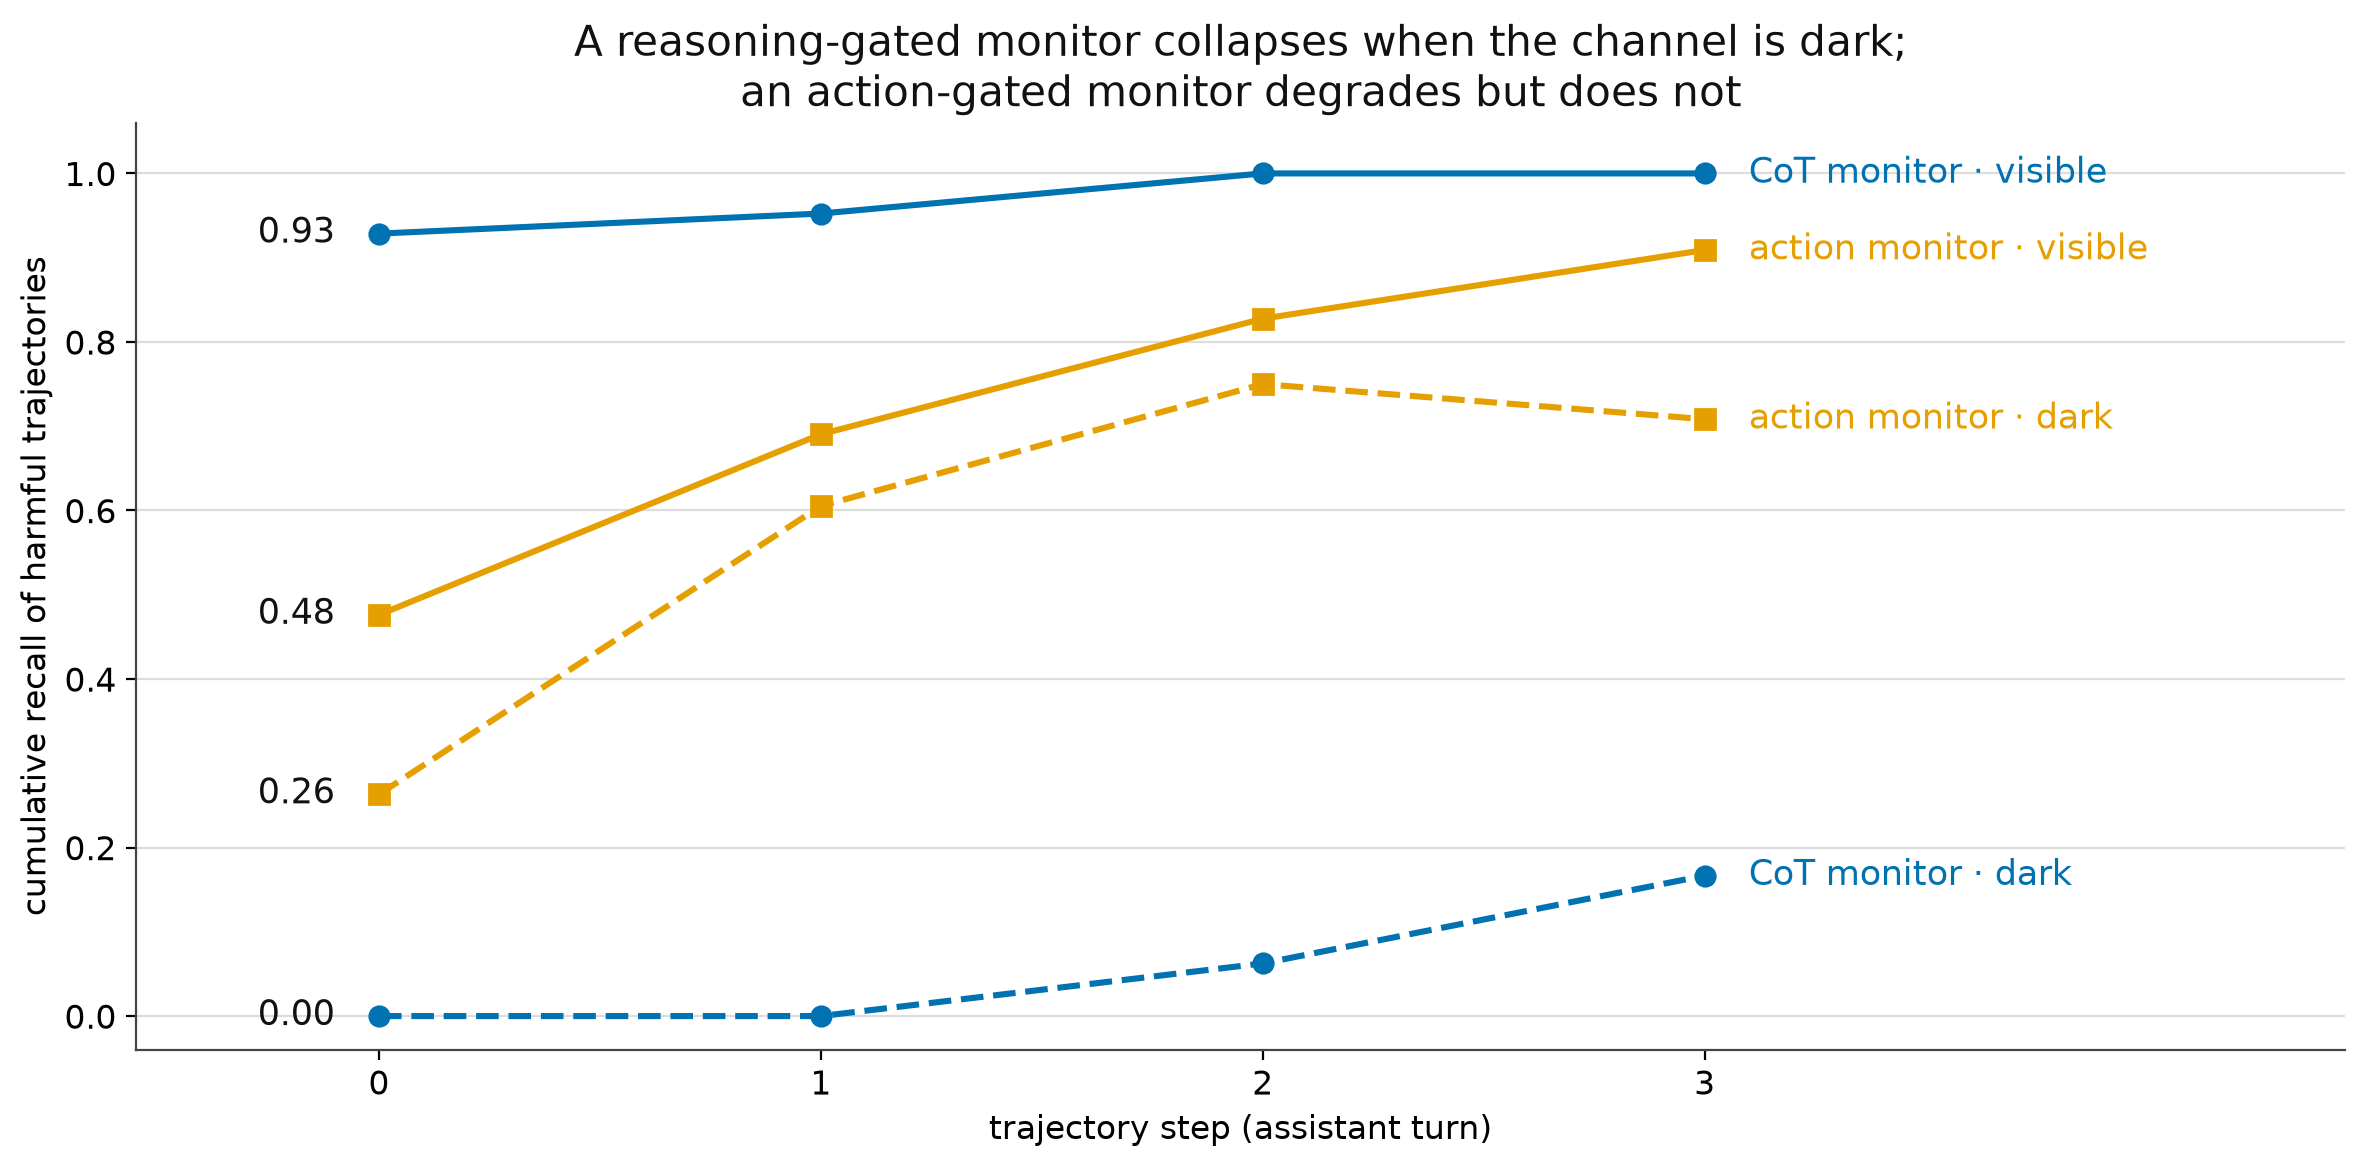
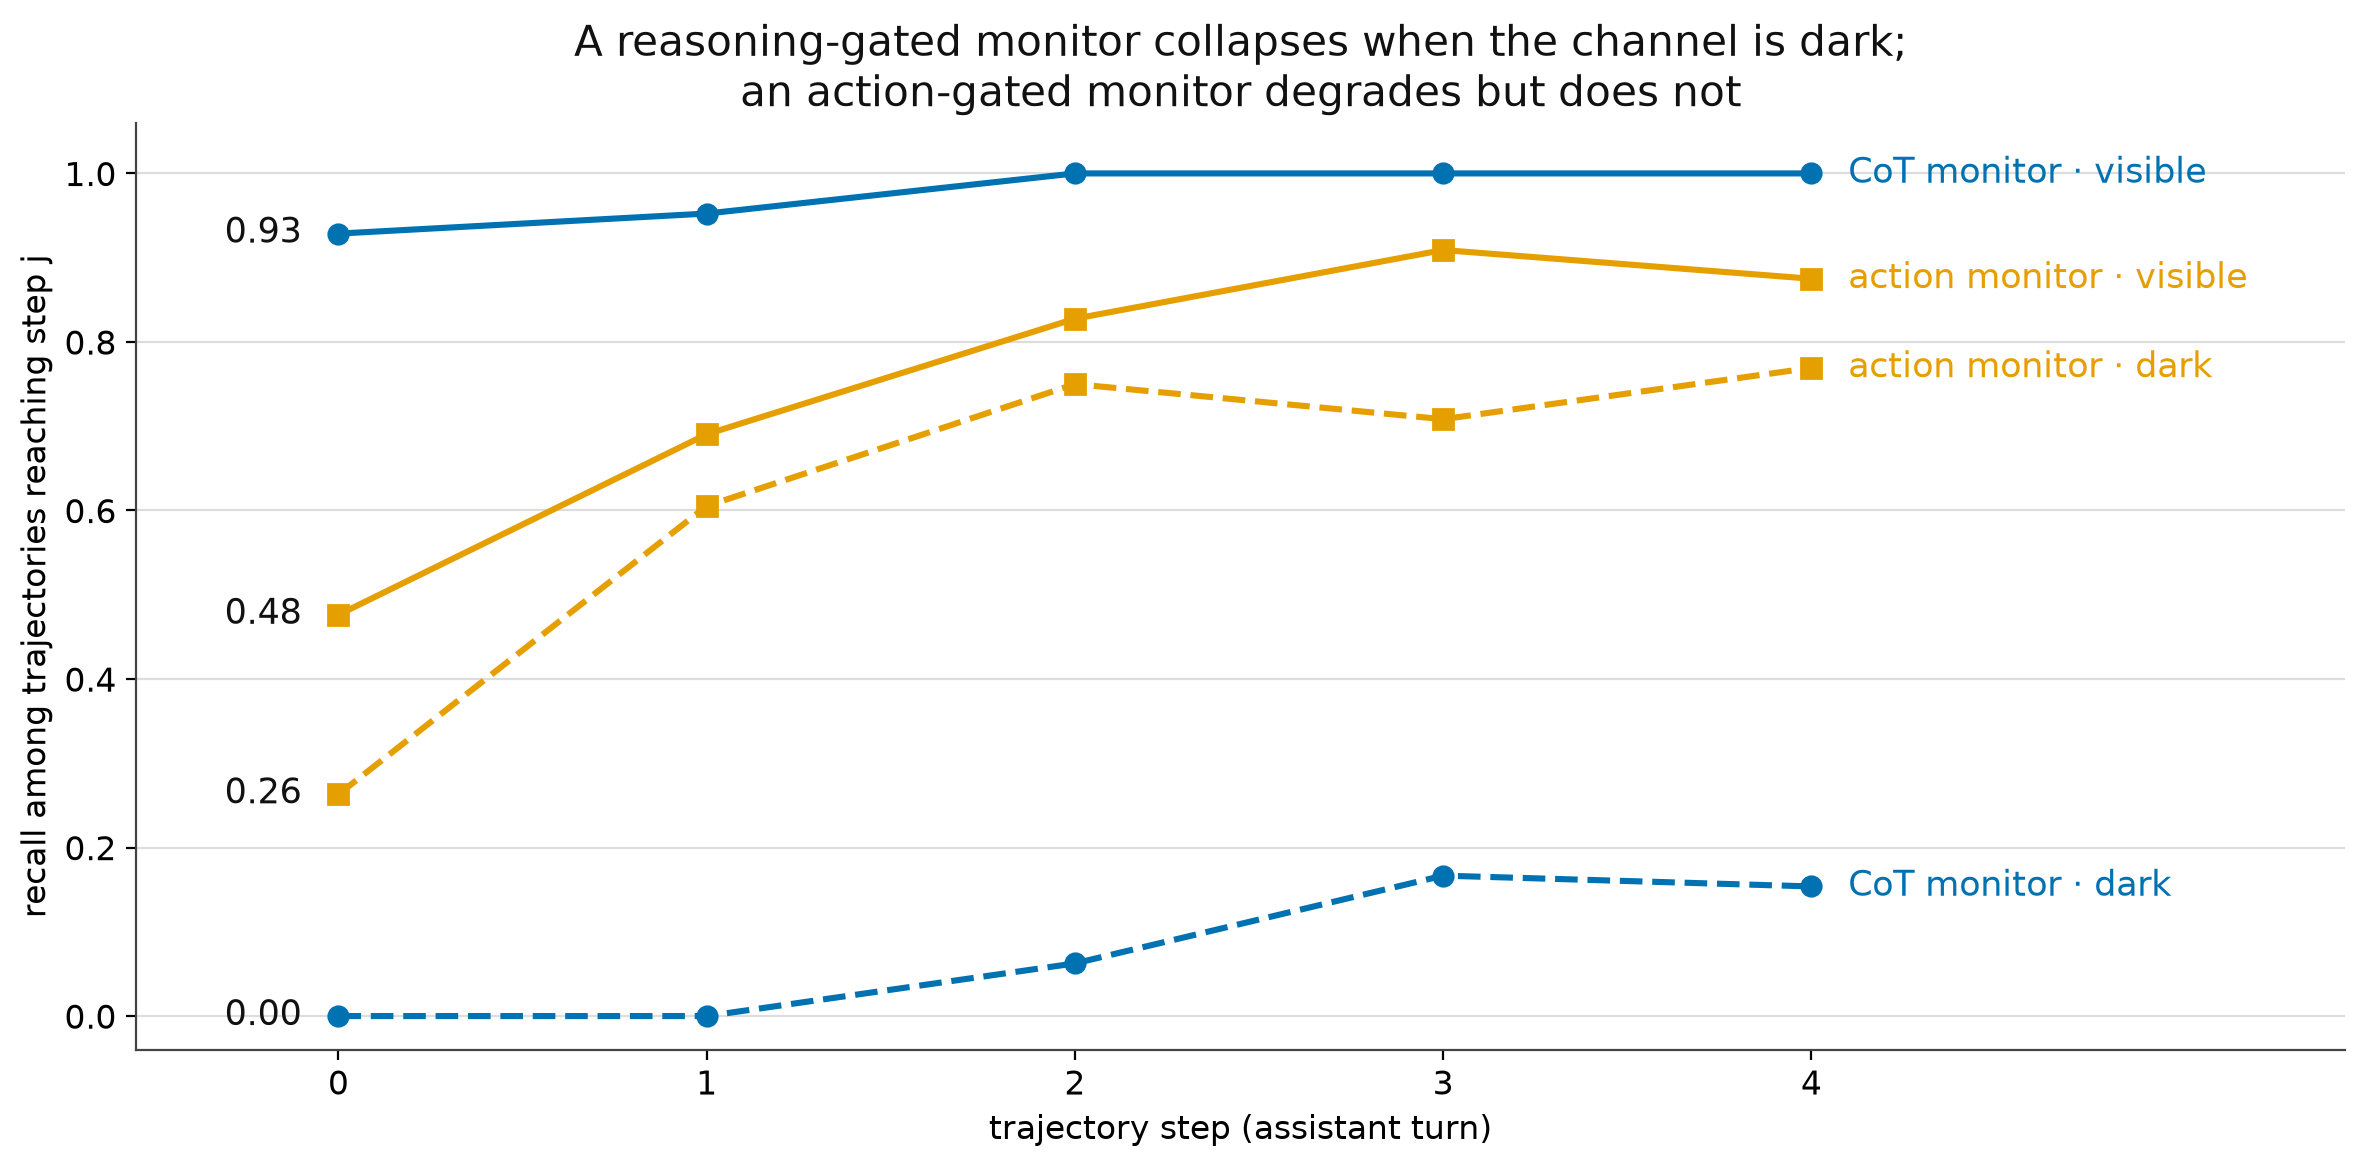
R15+R18+R06: Newcombe intervals, step 4 in figure 2, and the scoped figure 1 claim
R15. newcombe_difference implements Newcombe (1998) method 10, the hybrid-score
interval for a difference of independent proportions. The paper argued from two
non-overlapping Wilson intervals, which is evidence that two proportions differ
but is not an interval for the difference. Tested against Newcombe's own worked
example, 56/70 vs 48/80 -> [0.0524, 0.3339]. The measured differences:

  step-0 CoT recall, visible - dark     +0.929  [0.779, 0.975]
  step-0 action recall, visible - dark  +0.213  [0.001, 0.398]
  refusal rate, dark - visible          +0.180  [0.025, 0.328]

The action-monitor difference only just excludes zero, so the text no longer
narrates it as a finding. The refusal-rate difference does exclude zero, which
is what makes the clean-identification item in future work necessary rather than
decorative. It sits below the "NOT vendored" line; the vendored code is
untouched, so the claim that it is the same code tested upstream still holds.

R18. max_step 3 -> 4 in the figure script. Step 4 holds n=16 visible and n=13
dark, and its action-dark cell rises where step 3 fell - the survivor-conditioned
denominator made visible in the figure, which the caption now explains. The
y-axis label becomes "recall among trajectories reaching step j"; "cumulative
recall" unqualified was the thing being corrected. Adding step 4 leaves both
reported ranges intact: the CoT drop stays 0.83-0.95 (step 4 contributes 0.846)
and the action gap stays 0.08-0.20 (0.106).
[…]

diff --git a/scripts/make_paper_figures.py b/scripts/make_paper_figures.py
@@ -42,12 +42,17 @@ plt.rcParams.update({"font.size": 12, "axes.edgecolor": "#444444",
 FIG1_CAPTION = (
     "Figure 1. Share of assistant turns in each reasoning-channel state, per model "
     "arm, over three safety benchmarks (sycophancy, xstest, strong_reject; n = 1,263 "
-    "assistant turns per arm, identical 1,013 samples). Visibility is a partition, not "
-    "a spectrum: five arms are readable at about 1.0; deepseek-v3.2 in its default "
-    "configuration is fully absent (no reasoning produced) while the same model with "
-    "reasoning requested is 0.980 readable; and gpt-5-nano at low, medium and high "
-    "effort is fully redacted (encrypted). What an evaluator can read is set by the "
-    "provider and the request, not by the model. "
+    "assistant turns per arm, identical 1,013 samples). Visibility is bimodal IN THIS "
+    "SWEEP, whose configuration lever is binary in every arm: five arms are readable "
+    "at about 1.0; deepseek-v3.2 in its default configuration is fully absent (no "
+    "reasoning produced) while the same model with reasoning requested is 0.980 "
+    "readable; and gpt-5-nano at low, medium and high effort is fully redacted "
+    "(encrypted). The bimodality is not a general law: the agentic arms, where the "
+    "model's own emission behaviour varies, give intermediate shares (0.834 and 0.922 "
+    "for gpt-oss-120b across two pinned upstreams; 0.856 and 0.836 on SWE-bench). "
+    "Note also that this sweep is single-turn and so cannot show the post-tool-result "
+    "effect. What an evaluator can read is set by the provider and the request, not by "
+    "the model alone. "
     "Source: results/observability_record_reasoning.json."
 )
 
@@ -116,7 +121,10 @@ def figure_recall_drop() -> tuple[Path, str]:
                 for p in arms[arm]["recall_by_step"][channel]]
 
     fig, ax = plt.subplots(figsize=(12, 6))
-    max_step = 3  # powered steps; later steps fall below n=10 (noted in the caption)
+    # Powered steps; later steps fall below n=10 (noted in the caption). Step 4 holds
+    # n=16 visible and n=13 dark, and its action-dark cell rises where step 3 fell,
+    # which is the survivor-conditioned denominator becoming visible in the figure.
+    max_step = 4
     # Series are labelled at the line end rather than in a legend box, and their
     # step-0 value is annotated at the left, so the figure reads without a key.
     # No descriptive note is drawn inside the axes: that text is the caption's job
@@ -139,7 +147,7 @@ def figure_recall_drop() -> tuple[Path, str]:
     ax.set_ylim(-0.04, 1.06)
     ax.set_xticks(range(max_step + 1))
     ax.set_xlabel("trajectory step (assistant turn)")
-    ax.set_ylabel("cumulative recall of harmful trajectories")
+    ax.set_ylabel("recall among trajectories reaching step j")
     ax.set_title("A reasoning-gated monitor collapses when the channel is dark;\n"
                  "an action-gated monitor degrades but does not",
                  fontsize=15, color=TEXT)
@@ -157,13 +165,22 @@ def figure_recall_drop() -> tuple[Path, str]:
         "only the reasoning channel and one only the actions, over harmful-graded "
         f"qwen3-32b trajectories (AgentHarm harmful; {on} positives with reasoning "
         f"visible, {dark} with reasoning turned off by /no_think; AgentHarm's own "
-        "grader is ground truth). With reasoning visible the CoT monitor catches 0.93 "
-        "of trajectories at the first step and 1.00 by step 2; with the channel dark "
-        "it catches 0.00 at step 0 and 0.17 by step 3 (abstaining on 144/155 turns). "
-        "The action monitor keeps most of its recall in both arms because actions "
-        "stay observable. Steps beyond 3 fall below n = 10 and are omitted. Caveat: "
-        "/no_think also raised refusals (0.10 to 0.28), so the arms are not a clean "
-        "behavioural A/B; the CoT collapse is unambiguous. "
+        "grader is gpt-4o-2024-08-06, our ground truth). The denominator is "
+        "survivor-conditioned: at each step it is the positive trajectories still "
+        "running, so the curves are not monotone. Steps 0 and 1 are exact "
+        "full-denominator recalls, because the shortest positive trajectory in either "
+        "arm runs two steps. With reasoning visible the CoT monitor catches 0.93 of "
+        "trajectories at the first step, and all 29 still running at step 2 had been "
+        "caught; with the channel dark it catches 0.00 at step 0 and at most 0.17 "
+        "through step 4 (abstaining on 144/155 turns). The action monitor keeps most "
+        "of its recall in both arms because actions stay observable; its step-3 to "
+        "step-4 rise is the shrinking denominator, not a late catch. Steps beyond 4 "
+        "fall below n = 10 and are omitted. Caveats: /no_think also raised refusals "
+        "(0.10 to 0.28; difference 0.18, 95% CI [0.03, 0.33]), so the arms are not a "
+        "clean behavioural A/B, and no false-positive rate was measured, so these are "
+        "a visible-versus-dark contrast rather than an operating point. The CoT "
+        "collapse is unambiguous: the Newcombe 95% interval for the step-0 difference "
+        "is [0.78, 0.98]. "
         "Source: results/monitor_experiment_qwen3/monitor_record.json."
     )
     return path, caption

diff --git a/tests/test_vendored_stats.py b/tests/test_vendored_stats.py
@@ -4,6 +4,7 @@ import pytest
 
 from channels._vendored_stats import (
     bootstrap_ci,
+    newcombe_difference,
     wilson_interval,
     wilson_upper_bound,
 )
@@ -48,3 +49,49 @@ def test_wilson_interval_always_contains_its_point_estimate() -> None:
                 f"n={n}, successes={successes}: interval "
                 f"({interval.low}, {interval.high}) excludes {point}"
             )
+
+
+# --- Newcombe hybrid-score interval for a difference of proportions. -----------------
+
+
+def test_newcombe_matches_the_published_worked_example() -> None:
+    """Newcombe (1998) method 10 on his own example: 56/70 against 48/80.
+
+    The paper tabulates [0.0524, 0.3339] for this pair. Reproducing a published
+    worked example is the point of the test: it checks the method, not our arithmetic
+    against itself.
+    """
+    interval = newcombe_difference(56, 70, 48, 80)
+    assert interval.low == pytest.approx(0.0524, abs=5e-4)
+    assert interval.high == pytest.approx(0.3339, abs=5e-4)
+    assert interval.method == "newcombe-hybrid-score"
+
+
+def test_newcombe_is_symmetric_about_zero_for_identical_arms() -> None:
+    """Identical arms give a difference of zero and a symmetric interval."""
+    interval = newcombe_difference(20, 50, 20, 50)
+    assert interval.low == pytest.approx(-interval.high)
+
+
+def test_newcombe_swapping_the_arms_negates_the_interval() -> None:
+    forward = newcombe_difference(39, 42, 0, 38)
+    reverse = newcombe_difference(0, 38, 39, 42)
+    assert forward.low == pytest.approx(-reverse.high)
+    assert forward.high == pytest.approx(-reverse.low)
+
+
+def test_newcombe_handles_a_zero_arm_where_wald_would_not() -> None:
+    """The measured step-0 CoT contrast: 39/42 visible against 0/38 dark.
+
+    A Wald interval needs a standard error from each arm, and the dark arm's is zero,
+    so it would report a degenerate interval. The hybrid-score form does not.
+    """
+    interval = newcombe_difference(39, 42, 0, 38)
+    assert interval.low == pytest.approx(0.779, abs=1e-3)
+    assert interval.high == pytest.approx(0.975, abs=1e-3)
+    assert interval.low > 0.0
+
+
+def test_newcombe_rejects_an_empty_arm() -> None:
+    with pytest.raises(InvalidRateError, match="n_b must be positive"):
+        newcombe_difference(1, 10, 0, 0)

diff --git a/src/channels/_vendored_stats.py b/src/channels/_vendored_stats.py
@@ -212,3 +212,47 @@ def _z_for(confidence: float, two_sided: bool) -> float:
             f"(two_sided={two_sided}); tabulated levels are 0.90, 0.95, 0.99"
         )
     return table[key]
+
+
+def newcombe_difference(
+    successes_a: int,
+    n_a: int,
+    successes_b: int,
+    n_b: int,
+    confidence: float = 0.95,
+) -> Interval:
+    """Hybrid-score interval for the difference of two independent proportions.
+
+    Newcombe (1998) method 10: take each arm's Wilson limits, then combine the
+    distances from each point estimate in quadrature. The paper's visible and dark
+    arms are independent samples of trajectories, not a paired design, so this is the
+    applicable form.
+
+    Two non-overlapping Wilson intervals are evidence that two proportions differ, but
+    they are not an interval for the difference, and reporting them in place of one
+    overstates what was computed. This gives the quantity the comparison is actually
+    about. It behaves at the boundaries where a Wald interval does not: with 0 of 38
+    against 39 of 42 the normal-approximation standard error on one arm is zero.
+
+    Reference: Newcombe, R. G. (1998). Interval estimation for the difference between
+    independent proportions: comparison of eleven methods. Statistics in Medicine
+    17(8), 873-890.
+    """
+    for n, name in ((n_a, "n_a"), (n_b, "n_b")):
+        if n <= 0:
+            raise InvalidRateError(
+                f"{name} must be positive for a difference interval, got {n}"
+            )
+    first = wilson_interval(successes_a, n_a, confidence)
+    second = wilson_interval(successes_b, n_b, confidence)
+    point_a = successes_a / n_a
+    point_b = successes_b / n_b
+    difference = point_a - point_b
+    low = difference - math.hypot(point_a - first.low, second.high - point_b)
+    high = difference + math.hypot(first.high - point_a, point_b - second.low)
+    return Interval(
+        low=max(-1.0, low),
+        high=min(1.0, high),
+        method="newcombe-hybrid-score",
+        level=confidence,
+    )
